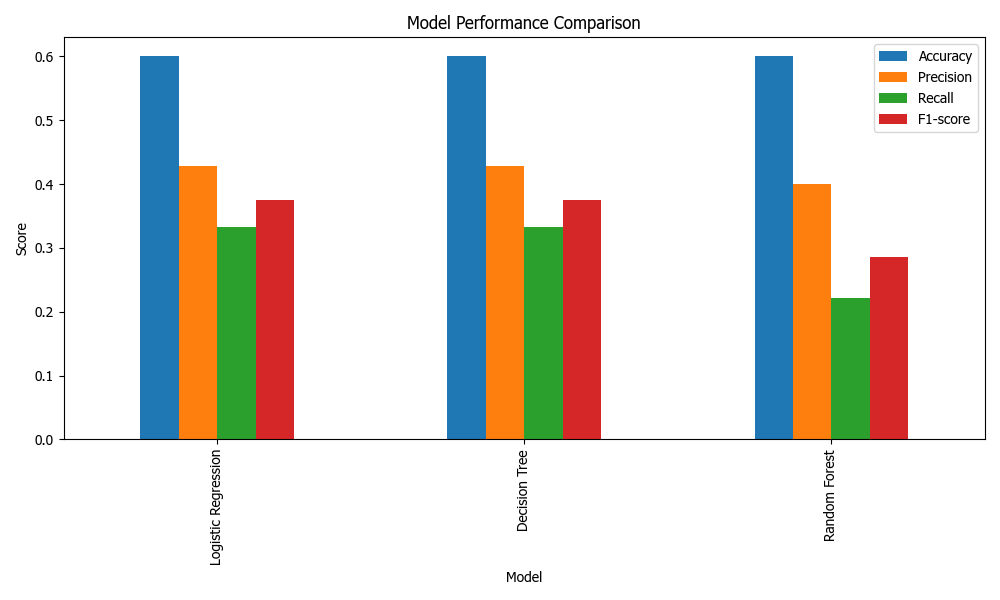
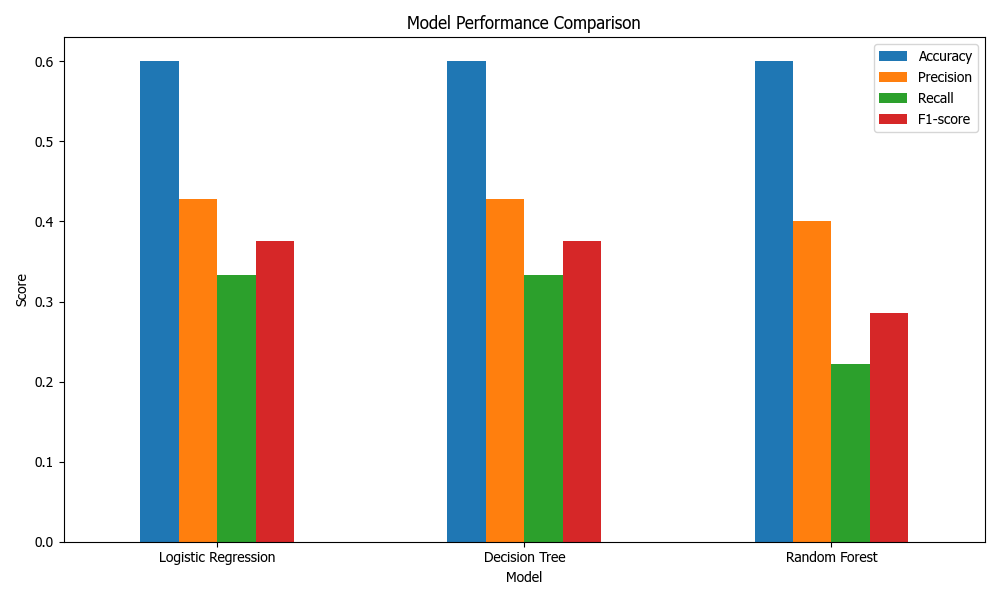
update graph

diff --git a/frontend/supervise.html b/frontend/supervise.html
@@ -51,7 +51,7 @@
                 <span class="sup-section-icon"><i class="ph-fill ph-images"></i></span>
                 Visualization
             </h2>
-            <p class="sup-section-desc">กราฟทั้งหมด</p>
+            <p class="sup-section-desc">กราฟทั้งหมด กดคลิกที่รูปเพื่อดูรูป</p>
 
             <div class="sup-gallery">
                 <div class="sup-graph-card" onclick="openLightbox(this)">
@@ -78,25 +78,38 @@
                 </div>
 
                 <div class="sup-graph-card" onclick="openLightbox(this)">
-                    <img src="../models/images/sup/kiyora_users_age_skin_type.png" alt="Kiyora Users Age & Skin Type"
+                    <img src="../models/images/sup/brand_skin_type.png" alt="Brand Skin Type"
                         loading="lazy">
                     <div class="sup-graph-overlay">
                         <span class="sup-graph-zoom-icon"></span>
                     </div>
                     <div class="sup-graph-caption">
-                        <h4>Age & Skin Type Distribution</h4>
-                        <p>อายุและสภาพผิวของผู้ใช้ Kiyora</p>
+                        <h4>Skin Type Distribution</h4>
+                        <p>สภาพผิวของผู้ใช้แต่ละแบรนด์</p>
                     </div>
                 </div>
 
                 <div class="sup-graph-card" onclick="openLightbox(this)">
-                    <img src="../models/images/sup/kiyora_factors.png" alt="Kiyora Purchase Factors" loading="lazy">
+                    <img src="../models/images/sup/brand_age.png" alt="Brand Age"
+                        loading="lazy">
+                    <div class="sup-graph-overlay">
+                        <span class="sup-graph-zoom-icon"></span>
+                    </div>
+                    <div class="sup-graph-caption">
+                        <h4>Age Distribution</h4>
+                        <p>อายุของผู้ใช้แต่ละแบรนด์</p>
+                    </div>
+                </div>
+
+
+                <div class="sup-graph-card" onclick="openLightbox(this)">
+                    <img src="../models/images/sup/brand_factors.png" alt="Brand Purchase Factors" loading="lazy">
                     <div class="sup-graph-overlay">
                         <span class="sup-graph-zoom-icon"></span>
                     </div>
                     <div class="sup-graph-caption">
                         <h4>Purchase Decision Factors</h4>
-                        <p>คะแนนปัจจัยในการเลือกซื้อ Kiyora</p>
+                        <p>คะแนนปัจจัยในการเลือกซื้อแต่ละแบรนด์</p>
                     </div>
                 </div>
 

diff --git a/models/supervise/supervise.py b/models/supervise/supervise.py
@@ -9,7 +9,7 @@ from sklearn.tree import DecisionTreeClassifier
 from sklearn.linear_model import LogisticRegression
 from sklearn.ensemble import RandomForestClassifier
 
-df = pd.read_csv('./data/cleansing_water_data.csv')
+df = pd.read_csv('./models/data/cleansing_water_data.csv')
 
 df_clean = df[df['use_cleansing_water'] == 'ใช้'].copy()
 # df_clean.to_csv('clean_cleansing_water_data.csv', index=False)
@@ -48,9 +48,9 @@ plt.rcParams['font.family'] = 'Tahoma'
 plt.figure(figsize=(30, 30))
 top_features = corr.sort_values().index
 sns.heatmap(X[top_features].join(y).corr(), annot=True, cmap='coolwarm', fmt=".2f")
-plt.title('Correlation Heatmap')
+plt.title('Correlation Heatmap (Top 10 Features vs Uses Kiyora)')
 plt.tight_layout()
-plt.savefig('./images/sup/corr_heatmap.png')
+plt.savefig('./models/images/sup/corr_heatmap.png')
 plt.show()
 
 class train:
@@ -80,15 +80,15 @@ class train:
         })
 
     results_df = pd.DataFrame(results)
-
-    with open('./supervise/model_performance.json', 'w') as f:
+    
+    with open('./models/supervise/model_performance.json', 'w') as f:
         f.write(results_df.to_json(indent=4))
     print("\n--- Model Accuracy ---")
     print(results_df)
 
     model = DecisionTreeClassifier(max_depth=3, random_state=42).fit(X_train, y_train)
     import joblib
-    joblib.dump(model, './supervise/dt.pkl')
+    joblib.dump(model, './models/supervise/dt.pkl')
 
     #plot
     results_df.set_index('Model', inplace=True)
@@ -96,32 +96,38 @@ class train:
     plt.title('Model Performance Comparison')
     plt.ylabel('Score')
     plt.legend()
+    plt.xticks(rotation=0)
     plt.tight_layout()
-    plt.savefig('./images/sup/model_performance.png')
+    plt.savefig('./models/images/sup/model_performance.png')
     plt.show()
 
 class plot:
-    df_kiyora_users = df_clean[df_clean['uses_kiyora'] == 1].copy()
-    plt.figure(figsize=(12, 5))
-    plt.subplot(1, 2, 1)
-    sns.countplot(y='age', data=df_kiyora_users, order=df_kiyora_users['age'].value_counts().index)
-    plt.title('อายุคนที่ใช้แบรนด์ Kiyora')
+    top_brands = df_clean['brand_primary'].value_counts().head(5).index.tolist()
+    df_top_brands = df_clean[df_clean['brand_primary'].isin(top_brands)].copy()
 
-    plt.subplot(1, 2, 2)
-    sns.countplot(y='skin_type', data=df_kiyora_users, order=df_kiyora_users['skin_type'].value_counts().index)
-    plt.title('สภาพผิวของคนที่ใช้แบรนด์ Kiyora')
+    plt.figure(figsize=(10, 8))
+    sns.countplot(y='age', hue='brand_primary', data=df_top_brands, order=df_top_brands['age'].value_counts().index)
+    plt.title('อายุคนที่ใช้แต่ละแบรนด์เป็นหลัก')
     plt.tight_layout()
-    plt.savefig('./images/sup/kiyora_users_age_skin_type.png')
+    plt.savefig('./models/images/sup/brand_age.png')
     plt.show()
 
-    plt.figure(figsize=(12, 6))
-    df_factors_kiyora = df_kiyora_users[factor_cols].rename(columns=lambda x: x.replace('factor_', ''))
+    plt.figure(figsize=(10, 8))
+    sns.countplot(y='skin_type', hue='brand_primary', data=df_top_brands, order=df_top_brands['skin_type'].value_counts().index)
+    plt.title('สภาพผิวของคนที่ใช้แต่ละแบรนด์เป็นหลัก')
+    plt.tight_layout()
+    plt.savefig('./models/images/sup/brand_skin_type.png')
+    plt.show()
 
-    sns.boxplot(data=df_factors_kiyora, orient='h')
-    plt.title('คะแนนปัจจัยในการเลือกซื้อ Kiyora')
+    plt.figure(figsize=(14, 8))
+    df_factors = df_top_brands[['brand_primary'] + factor_cols].rename(columns=lambda x: x.replace('factor_', ''))
+    df_melted = df_factors.melt(id_vars='brand_primary', var_name='Factor', value_name='Score')
+
+    sns.boxplot(x='Score', y='Factor', hue='brand_primary', data=df_melted, orient='h')
+    plt.title('คะแนนปัจจัยในการเลือกซื้อแต่ละแบรนด์เป็นหลัก')
     plt.xlabel('คะแนน (1-5)')
     plt.tight_layout()
-    plt.savefig('./images/sup/kiyora_factors.png')
+    plt.savefig('./models/images/sup/brand_factors.png')
     plt.show()
 
 class plotComparison:
@@ -140,5 +146,5 @@ class plotComparison:
     plt.xlabel('Brands')
     plt.ylabel('Factors')
     plt.tight_layout()
-    plt.savefig('./images/sup/brand_core_values.png')
+    plt.savefig('./models/images/sup/brand_core_values.png')
     plt.show()